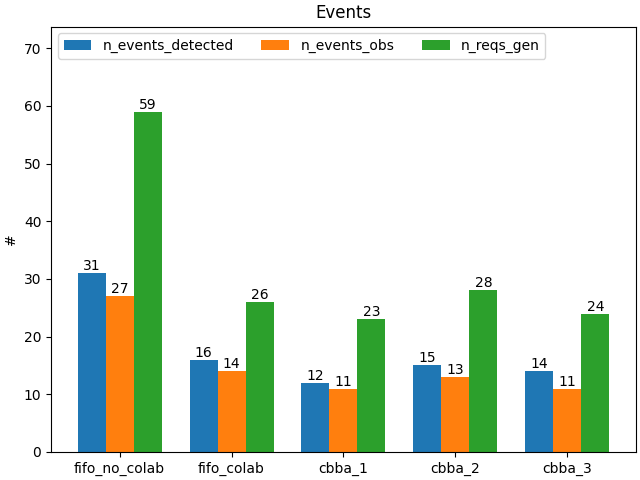
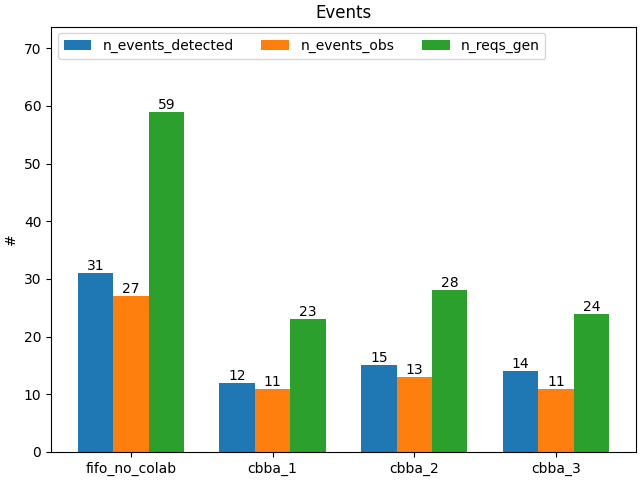
updated plots

Changed region(s): [[0.125, 0.1875, 0.9375, 1.0], [0.9062, 0.625, 0.9375, 0.6562], [0.125, 0.5312, 0.1562, 0.5625]]

diff --git a/chess3d/scenarios/aist_proposal/scenario2_base/resources/grid_plotter.py b/chess3d/scenarios/aist_proposal/scenario2_base/resources/grid_plotter.py
@@ -1,0 +1,23 @@
+import matplotlib.pyplot as plt
+import pandas as pd
+
+
+import pandas as pd
+from shapely.geometry import Point
+import geopandas as gpd
+from geopandas import datasets
+from geopandas import GeoDataFrame
+
+df = pd.read_csv('./lake_event_points.csv')
+
+geometry = [Point(xy) for xy in zip(df['lon [deg]'], df['lat [deg]'])]
+gdf = GeoDataFrame(df, geometry=geometry)   
+# fig,ax = plt.subplots()
+
+#this is a simple map that goes with geopandas
+world = gpd.read_file(datasets.get_path('naturalearth_lowres'))
+gdf.plot(ax=world.plot(figsize=(20, 10)), marker='o', color='cyan', markersize=8)
+# plt.grid(True)
+# plt.show()
+print(len(df))
+plt.savefig('./lake_event_points.png')

diff --git a/chess3d/scenarios/aist_proposal/plots.py b/chess3d/scenarios/aist_proposal/plots.py
@@ -29,8 +29,9 @@ def plot_bars(name : str, data : dict, show=False, save=True) -> None:
 
 if __name__ == '__main__':
 
-    scenarios = ['fifo_no_colab',
-                 'fifo_colab',
+    scenarios = [
+                'fifo_no_colab',
+                #  'fifo_colab',
                  'cbba_1',
                  'cbba_2',
                  'cbba_3',
